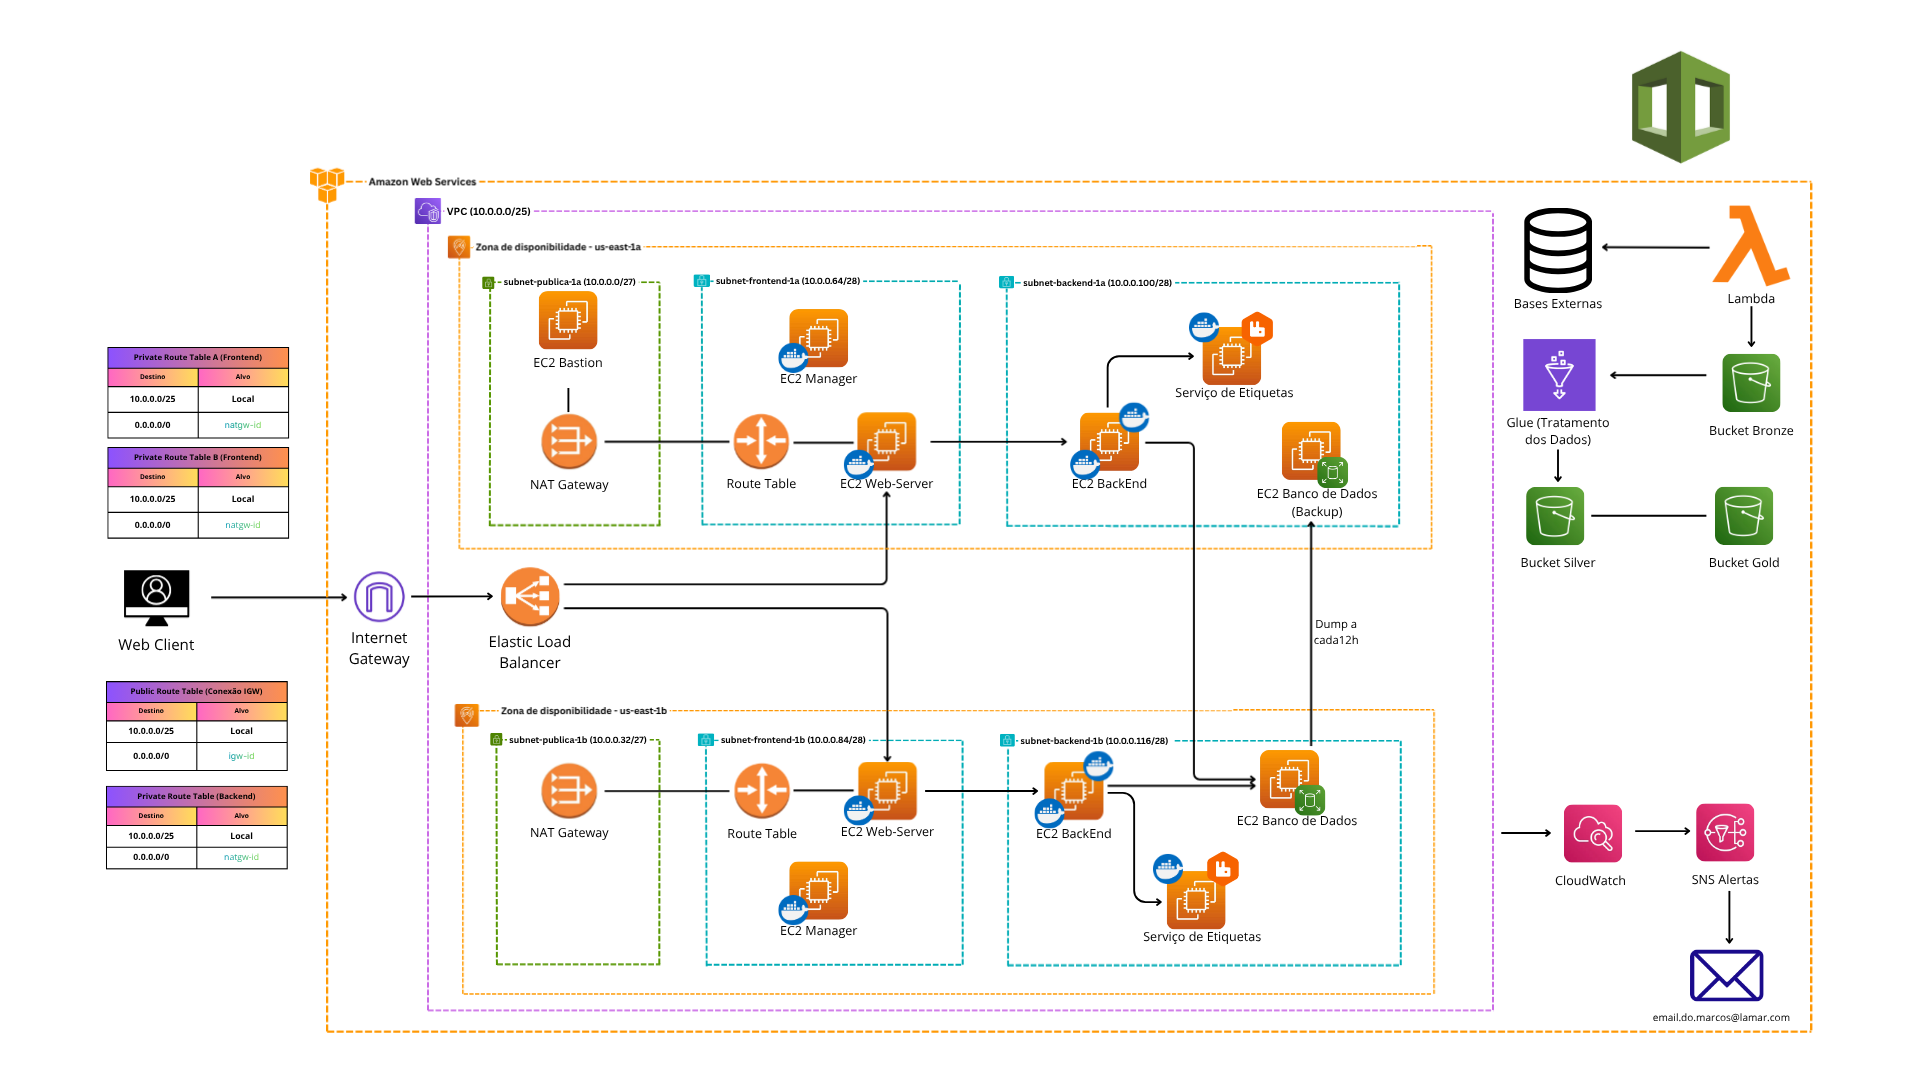
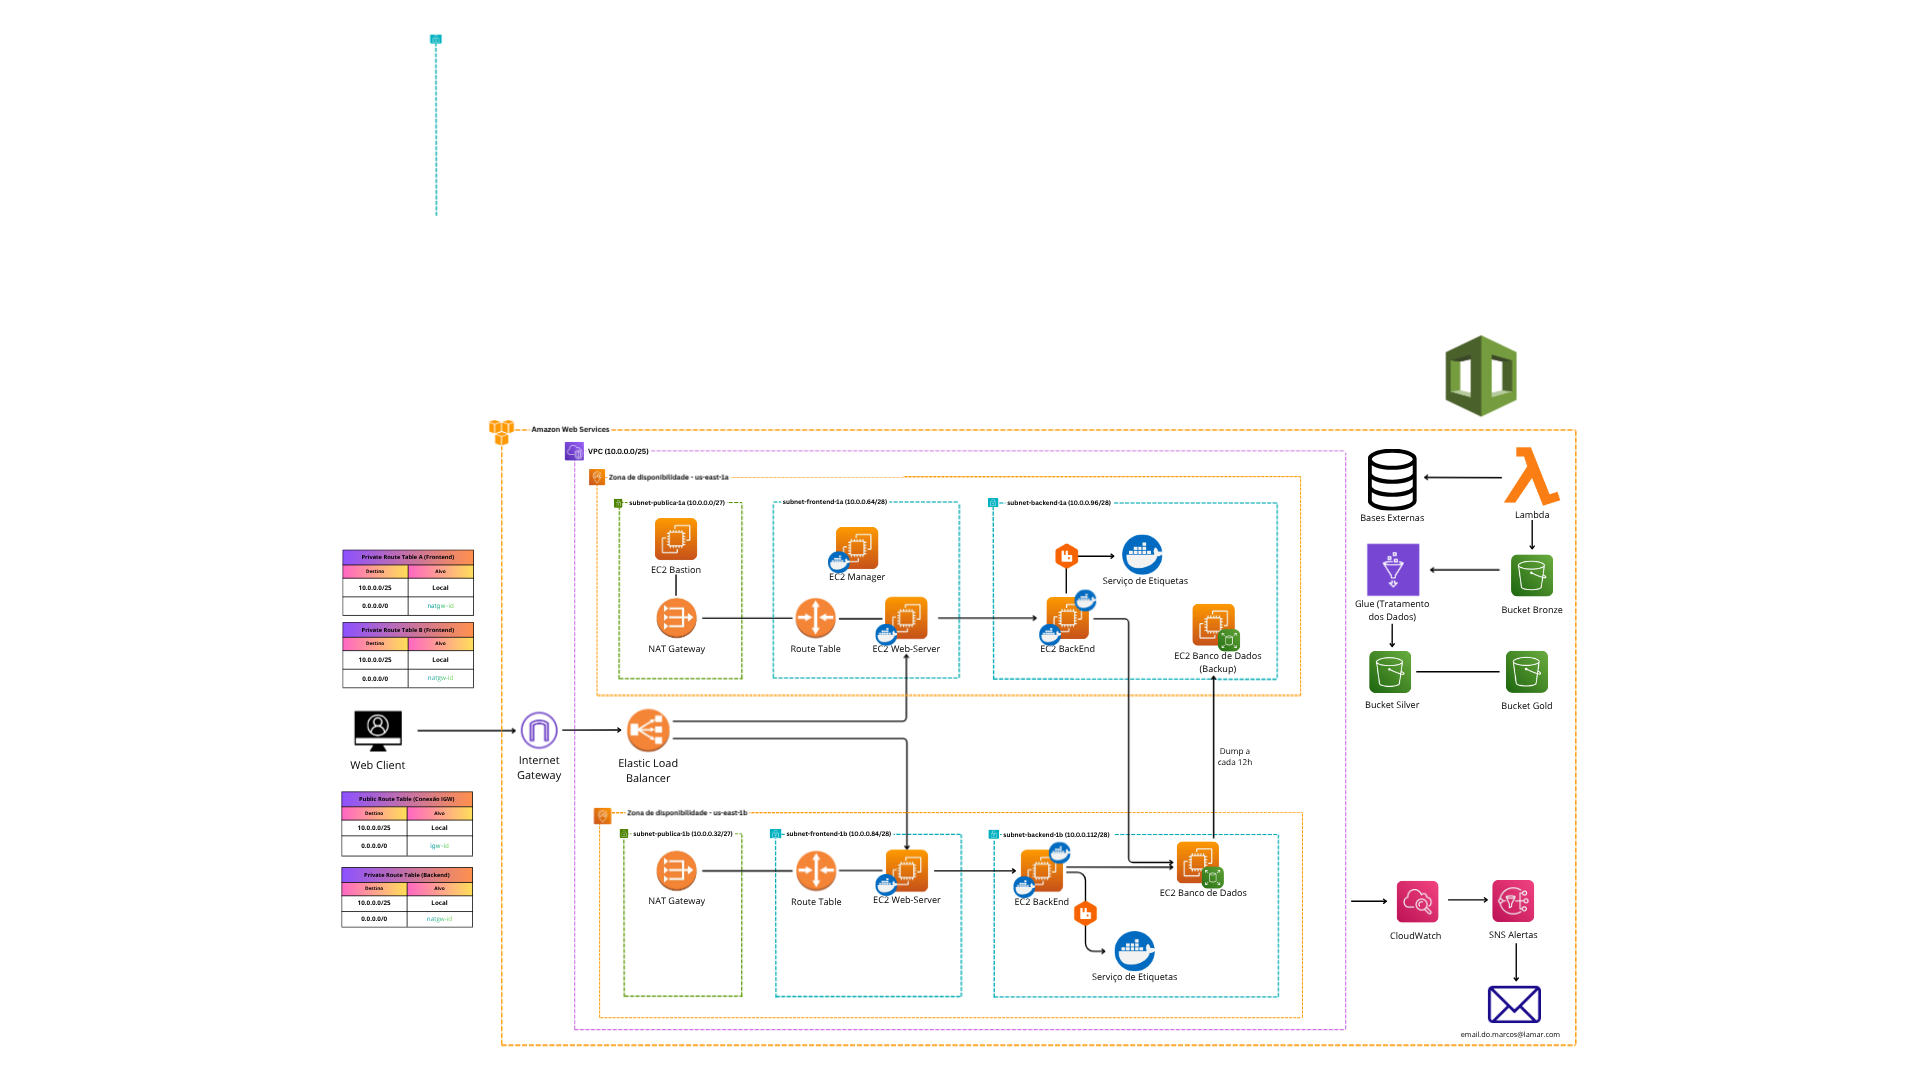
feat: atualiza configuração do MailPassword para suportar senhas de app do Gmail e adiciona testes para validação

diff --git a/IaC CloudFormation/tests/swarm_configuration_test.py b/IaC CloudFormation/tests/swarm_configuration_test.py
@@ -1,8 +1,11 @@
 """Offline contracts for backend/RabbitMQ consolidation (requires PyYAML)."""
 
+import base64
 import collections
 from pathlib import Path
 import re
+import subprocess
+import sys
 import unittest
 
 import yaml
@@ -57,6 +60,8 @@ class Renderer:
         key, argument = next(iter(value.items()))
         if key == "Ref":
             return self.parameters.get(argument, argument)
+        if key == "Fn::Base64":
+            return base64.b64encode(self.render(argument).encode("utf-8")).decode("ascii")
         if key == "Condition":
             return self.condition(argument)
         if key == "Fn::If":
@@ -185,6 +190,42 @@ class SwarmConfigurationTests(unittest.TestCase):
         self.assertNotIn("Default", password)
         self.assertEqual(password["MinLength"], 12)
         self.assertTrue(password["NoEcho"])
+
+    def test_smtp_password_has_no_character_restriction(self):
+        password = self.template["Parameters"]["MailPassword"]
+        self.assertNotIn("AllowedPattern", password)
+        self.assertNotIn("AllowedValues", password)
+        self.assertTrue(password["NoEcho"])
+        self.assertEqual(password["MinLength"], 1)
+        for name in ("DatabasePassword", "RabbitMqPassword", "AdminPassword"):
+            self.assertIn("AllowedPattern", self.template["Parameters"][name])
+
+    def test_smtp_password_is_encoded_before_shell_interpolation(self):
+        source, variables = self.template["Resources"]["SwarmManagerInstance"]["Properties"]["UserData"]["Fn::Base64"]["Fn::Sub"]
+        self.assertNotIn("${MailPassword}", source)
+        self.assertEqual(variables["MailPasswordBase64"], {"Fn::Base64": {"Ref": "MailPassword"}})
+
+    def test_smtp_secret_normalizes_only_gmail_display_spaces(self):
+        cases = (
+            ("remetente@gmail.com", "xxxx xxxx xxxx xxxx", "xxxxxxxxxxxxxxxx"),
+            ("remetente@gmail.com", "xxxxxxxxxxxxxxxx", "xxxxxxxxxxxxxxxx"),
+            ("remetente@GoogleMail.COM", "abcd efgh ijkl mnop", "abcdefghijklmnop"),
+            ("remetente@example.com", "a b'\"$()\\;`<>\né", "a b'\"$()\\;`<>\né"),
+        )
+        for username, password, expected in cases:
+            with self.subTest(username=username):
+                renderer = Renderer(self.template, MailUsername=username, MailPassword=password)
+                script = renderer.render(self.template["Resources"]["SwarmManagerInstance"]["Properties"]["UserData"]["Fn::Base64"])
+                pipeline = script.split("# Base64", 1)[1].split("# Libera", 1)[0]
+                encoded = re.search(r"printf '%s' '([^']*)' \| base64 --decode", pipeline).group(1)
+                command = re.search(r"python3 -c '([^']*)' '([^']*)'", pipeline)
+                result = subprocess.run(
+                    [sys.executable, "-c", command.group(1), command.group(2)],
+                    input=base64.b64decode(encoded), capture_output=True, check=True,
+                )
+                self.assertEqual(result.stdout, expected.encode("utf-8"))
+                self.assertEqual(result.stderr, b"")
+                self.assertIn("| docker secret create codetracker-mail-password -", pipeline)
 
     def test_broker_memory_limit_leaves_headroom_on_medium(self):
         for name in ("BackendInstanceAz1", "BackendInstanceAz2"):

diff --git a/IaC CloudFormation/README.md b/IaC CloudFormation/README.md
@@ -378,7 +378,16 @@ Parametros a preencher:
   5.1 e no PowerShell 7.
 - `MailUsername`: conta de e-mail SMTP que envia e-mails do backend e etiquetas.
 - `MailPassword`: senha SMTP dessa conta (senha de app no Gmail); a senha
-  antiga presente em imagens anteriores deve ser revogada.
+  antiga presente em imagens anteriores deve ser revogada. Nao exige maiusculas,
+  numeros ou simbolos: aceita a senha de app como `xxxx xxxx xxxx xxxx` ou sem
+  espacos. Para contas `gmail.com`/`googlemail.com`, o bootstrap remove somente
+  os espacos de apresentacao antes de criar o secret compartilhado por backend
+  e etiquetas. Para outros provedores, preserva a senha exatamente como enviada.
+  O valor deve ser nao vazio e continua com `NoEcho`; Base64 no bootstrap evita
+  interpretacao pelo shell, mas nao criptografa a senha. Nao publique UserData.
+  Em um cluster existente, atualizar o parametro nao reexecuta automaticamente
+  o UserData nem substitui o Docker secret: planeje a rotacao e atualize ambos
+  os servicos, sem recriar a stack ou expor a senha em comandos/logs.
 - `EtiquetaEmailDestinatario`: e-mail que recebera as etiquetas geradas.
 - `InstanceType`: `t3.small` por padrao, somente manager e bastion.
 - `BackendInstanceType`: `t3.medium` por padrao, nos dois workers backend.
